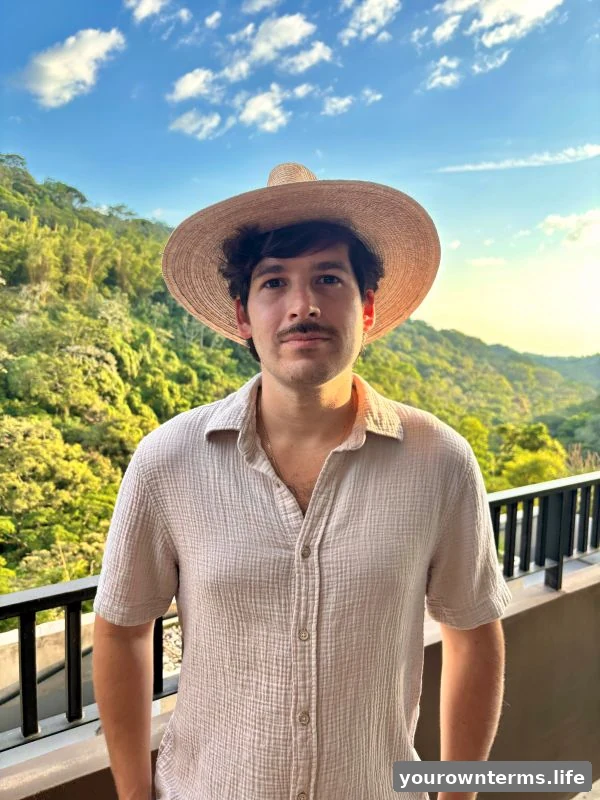
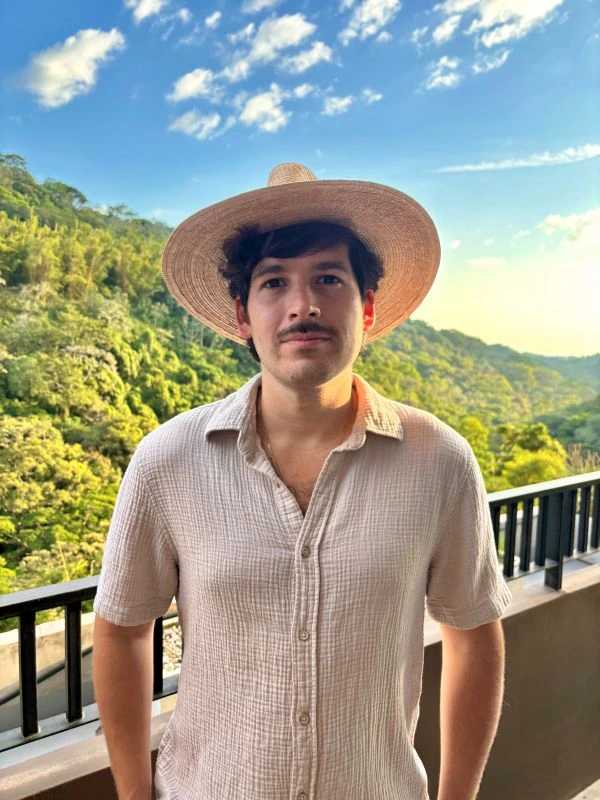
Update images to webp, add WeSpark CEO credit, fix mobile layout

Changed region(s): [[0.63, 0.9375, 0.99, 1.0]]

diff --git a/index.html b/index.html
@@ -12,6 +12,7 @@
   <style>
     /* ─── RESET & BASE ─────────────────────────────────────────── */
     *, *::before, *::after { box-sizing: border-box; margin: 0; padding: 0; }
+    html, body { overflow-x: hidden; }
     :root {
       --green:       #2C5F2E;
       --green-mid:   #4A7C59;
@@ -119,7 +120,7 @@
       font-size: .9rem; font-weight: 500; transition: background .2s;
     }
     .hero-cta:hover { background: rgba(255,255,255,.2); text-decoration: none; }
-    .hero-img { margin-top: 56px; max-width: 320px; opacity: .92; }
+    .hero-img { margin-top: 56px; max-width: 720px; width: 100%; opacity: .92; }
 
     /* ─── PHILOSOPHY / 80-10-10 ─────────────────────────────────── */
     .pillars-grid {
@@ -227,7 +228,7 @@
       padding: 9px 18px; border-radius: 50px;
       background: linear-gradient(135deg, #833ab4, #fd1d1d, #fcb045);
       color: #fff; font-size: .82rem; font-weight: 600;
-      transition: opacity .2s; white-space: nowrap;
+      transition: opacity .2s; white-space: nowrap; max-width: 100%;
     }
     .ig-btn:hover { opacity: .88; text-decoration: none; }
     .ig-btn svg { width: 16px; height: 16px; fill: #fff; }
@@ -295,6 +296,21 @@
     .food-pyramid-wrap img { max-width: 520px; border-radius: var(--radius); box-shadow: 0 4px 24px rgba(0,0,0,.08); }
     .divider { border: none; border-top: 1px solid var(--border); margin: 48px 0; }
     .tag { display: inline-block; background: var(--green-light); color: var(--green); font-size: .75rem; font-weight: 600; padding: 4px 12px; border-radius: 50px; margin-bottom: 12px; }
+
+    /* ─── MOBILE FIXES ──────────────────────────────────────────── */
+    @media(max-width:480px) {
+      .container { padding: 0 16px; }
+      .section { padding: 56px 0; }
+      .oils-wrap img, .food-pyramid-wrap img, .nature-img-wrap img { max-width: 100%; }
+      .ig-btn { white-space: normal; text-align: center; }
+      .bio-link { white-space: normal; }
+      h2 { font-size: 1.6rem; }
+      .hero { padding: 60px 16px; }
+      .hero-img { max-width: 100%; }
+      .box { padding: 16px; }
+      .story-photo { max-width: 260px; }
+      .split { gap: 20px; }
+    }
   </style>
 </head>
 <body>
@@ -322,7 +338,7 @@
     <svg xmlns="http://www.w3.org/2000/svg" width="16" height="16" fill="none" viewBox="0 0 24 24" stroke="currentColor" stroke-width="2"><path stroke-linecap="round" stroke-linejoin="round" d="M19 9l-7 7-7-7"/></svg>
   </a>
   <div class="hero-img">
-    <img src="images/cure-bandaid.webp" alt="The Cure vs The Bandaid" width="600" height="691" loading="lazy" />
+    <img src="images/Bandaid%20VS%20Cure%20-%20yourownterm.life%20.webp" alt="The Cure vs The Bandaid" width="720" height="375" loading="lazy" />
   </div>
 </section>
 
@@ -400,7 +416,7 @@
         </div>
       </div>
       <div class="food-pyramid-wrap" style="margin:0;">
-        <img src="images/food-pyramid.webp" alt="Animal-Based Food Pyramid" width="685" height="737" loading="lazy" />
+        <img src="images/Animal-based%20Food%20Pyramid%20-%20yourownterm.life%20.webp" alt="Animal-Based Food Pyramid" width="685" height="736" loading="lazy" />
       </div>
     </div>
 
@@ -425,7 +441,7 @@
       <h3>Know Your Oils</h3>
       <p>Not all fats are created equal. The processing method and heat stability of an oil matters as much as its source. Cold-pressed, minimally processed fats from animal and traditional plant sources have a fundamentally different chemical profile from industrially extracted seed oils.</p>
       <div class="oils-wrap">
-        <img src="images/oils.webp" alt="Healthy vs Unhealthy Oils" width="601" height="451" loading="lazy" />
+        <img src="images/Good%20Oils%20VS%20Bad%20Oils%20-%20yourownterm.life%20.webp" alt="Healthy vs Unhealthy Oils" width="601" height="497" loading="lazy" />
       </div>
       <div class="box box-caveat">
         <div class="box-label">⚠ Worth Knowing</div>
@@ -520,7 +536,7 @@
 
       <div class="split" style="margin:32px 0 24px; align-items:center;">
         <div class="nature-img-wrap" style="margin:0;">
-          <img src="images/nature-brain.webp" alt="Your brain on a nature walk" width="500" height="986" loading="lazy" />
+          <img src="images/Brain%20during%20a%20Nature%20Walk%20-%20yourownterm.life%20.webp" alt="Your brain on a nature walk" width="500" height="490" loading="lazy" />
         </div>
         <div>
           <div class="box box-evidence">
@@ -740,12 +756,13 @@
 
       <div>
         <div class="story-photo">
-          <img src="images/Nelson Inno - yourownterms.life.webp" alt="Nelson Inno" />
+          <img src="images/Nelson%20Inno%20-%20yourownterms.life.webp" alt="Nelson Inno" />
         </div>
       </div>
 
       <div>
         <span class="story-label">Nelson Inno</span>
+        <p style="font-size:.85rem;color:var(--green-mid);font-weight:600;margin-bottom:16px;margin-top:-4px;">CEO, <a href="https://wespark.io" target="_blank" rel="noopener" style="color:var(--green-mid);">WeSpark Innovation Agency</a></p>
         <h2>−30 Pounds. 30 Days. One Carnivore Month.</h2>
         <div class="story-stat">
           <span class="lbl" style="font-size:.95rem;opacity:1;">Diet gets you 80% of the results</span>
@@ -774,23 +791,4 @@
 <!-- ─── DISCLAIMER ─────────────────────────────────────────────────── -->
 <div class="disclaimer">
   <div class="container">
-    <p><strong>Disclaimer:</strong> This website represents one person's personal research journey and lived experience. This is not medical advice. The studies and data referenced are ongoing and evolving. Some claims are well-supported by peer-reviewed research; others are based on emerging, contested, or limited evidence. Always consult a qualified healthcare professional before making significant changes to your diet, supplementation, or lifestyle — especially if you have pre-existing medical conditions. Do your own research.</p>
-  </div>
-</div>
-
-<!-- ─── FOOTER ─────────────────────────────────────────────────────── -->
-<footer>
-  <p>© 2026 <a href="https://yourownterms.life">yourownterms.life</a> &nbsp;·&nbsp; Built with intention &nbsp;·&nbsp; <a href="https://nelsoninno.com">About Nelson</a></p>
-</footer>
-
-<!-- ─── JS ─────────────────────────────────────────────────────────── -->
-<script>
-  // Fade-in on scroll
-  const observer = new IntersectionObserver((entries) => {
-    entries.forEach(e => { if (e.isIntersecting) { e.target.classList.add('visible'); } });
-  }, { threshold: 0.1 });
-  document.querySelectorAll('.fade-in').forEach(el => observer.observe(el));
-</script>
-
-</body>
-</html>
+    <p><strong>Disclaimer:</strong> This website represents one person's personal research journey and lived experience. This is not medical advice. The studies and data referenced are ongoing and evolving. Some claims are well-supported by peer-reviewed research; others are based on emerging, cont
